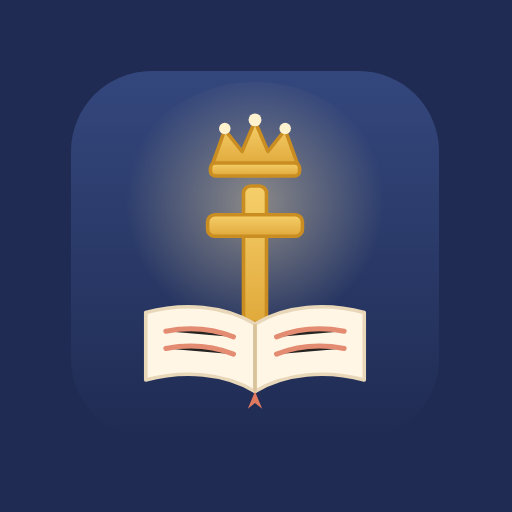
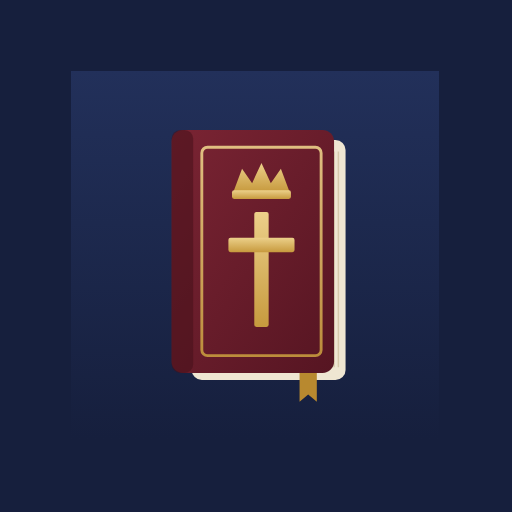
Visual mais formal, novo ícone de Bíblia e aba Bíblia com link para o YouVersion
Claude-Session: https://claude.ai/code/session_01E4AjPxqzJw7QhPjVE5xKtq

diff --git a/index.html b/index.html
@@ -5,7 +5,7 @@
 <meta name="viewport" content="width=device-width, initial-scale=1, viewport-fit=cover">
 <!-- PWA: permite instalar na tela inicial do celular -->
 <link rel="manifest" href="manifest.webmanifest">
-<meta name="theme-color" content="#2b3a67">
+<meta name="theme-color" content="#1c2747">
 <meta name="mobile-web-app-capable" content="yes">
 <meta name="apple-mobile-web-app-capable" content="yes">
 <meta name="apple-mobile-web-app-status-bar-style" content="default">
@@ -459,6 +459,47 @@ dialog.note-dlg{max-width:620px}
   .view-head svg.ill{width:56px;height:56px}
 }
 
+
+/* =========================================================
+   10. AJUSTES DE ESTILO FORMAL
+   ========================================================= */
+:root{ --gold:#b8892f; --gold-soft:#f6ecd6; --coral:#8c2f39; --sage:#4f7a63; --sage-soft:#e6efe9; --sky:#3f6c99; --sky-soft:#e6eef7; --plum:#5e4a72;
+       --hero-a:#1c2747; --hero-b:#2b3a67; --radius:12px }
+[data-theme="dark"]{ --coral:#d8848c; --gold:#d9b25f; --sage:#8fb8a1; --plum:#b9a3cc }
+.hero h2,.view-head h2,.home-card h3,.day-ref,.brand span,.bp-card h3,.note-card h3{font-family:var(--font-text);font-weight:600;letter-spacing:.1px}
+.hero{border-radius:16px}
+.hero h2{font-size:28px}
+.hero .eyebrow{color:#e3c47e;letter-spacing:1.4px}
+.hero-mark{width:96px;height:96px;border-radius:22px;box-shadow:0 6px 18px rgba(0,0,0,.25);flex:none}
+.eyebrow{color:var(--coral);letter-spacing:1.2px}
+.home-card,.bp-card,.note-card,.day-card,.streak{border-radius:12px}
+.home-card{border-top:3px solid var(--gold)!important}
+.home-card .badge-ill,.view-head svg.ill,.bp-thumb{display:none}
+.view-head{border-left:3px solid var(--gold);padding-left:14px}
+.streak .flame{width:30px;height:30px;color:var(--gold)}
+.nav-btn{border-radius:8px}
+.top-nav .nav-btn[aria-current="page"]{background:transparent;color:var(--accent);box-shadow:inset 0 -2px 0 var(--gold);border-radius:0}
+.pill{border-radius:6px}
+.btn{border-radius:8px}
+.note-card{border-left-width:3px}
+.devo-block h4{letter-spacing:1px}
+/* Aba Bíblia: o leitor ocupa a área entre o topo e a barra inferior */
+body.reading{overflow:hidden}
+dialog.reader.as-view{position:fixed;top:66px;bottom:14px;left:0;right:0;margin:0 auto;height:auto;max-height:none;width:calc(100% - 24px);max-width:900px;z-index:20;box-shadow:var(--shadow)}
+.rd-mid{display:flex;align-items:center;gap:8px;flex-wrap:wrap;justify-content:center}
+#rdYV{font-size:12px}
+dialog.reader.as-view .rd-com{max-height:24vh}
+.rd-verse.sel{cursor:default}
+@media (max-width:899px){
+  dialog.reader.as-view{top:60px;bottom:calc(64px + env(safe-area-inset-bottom));width:100%;max-width:100%;border-radius:0;border-left:0;border-right:0}
+  .bottom-nav .nav-btn{font-size:10px;padding:6px 0}
+  .bottom-nav .nav-btn .icon{width:21px;height:21px}
+}
+@media (max-width:760px){
+  .hero-mark{width:64px;height:64px;border-radius:15px}
+  .hero h2{font-size:22px}
+  .rd-mid #rdPos{display:none}
+}
 </style>
 </head>
 <body>
@@ -541,6 +582,7 @@ dialog.note-dlg{max-width:620px}
     <h1 class="brand"><a href="#inicio" data-view="inicio"><img src="icons/icon.svg" alt="" width="34" height="34"><span>Concordância Bíblica</span></a></h1>
     <nav class="top-nav" aria-label="Seções do aplicativo">
       <button type="button" class="nav-btn" data-view="inicio"><svg class="icon" aria-hidden="true"><use href="#i-home"/></svg>Início</button>
+      <button type="button" class="nav-btn" data-view="biblia"><svg class="icon" aria-hidden="true"><use href="#i-book"/></svg>Bíblia</button>
       <button type="button" class="nav-btn" data-view="busca"><svg class="icon" aria-hidden="true"><use href="#i-search"/></svg>Busca bíblica</button>
       <button type="button" class="nav-btn" data-view="texto"><svg class="icon" aria-hidden="true"><use href="#i-sun"/></svg>Texto do dia</button>
       <button type="button" class="nav-btn" data-view="devocional"><svg class="icon" aria-hidden="true"><use href="#i-lamp"/></svg>Devocional</button>
@@ -548,7 +590,6 @@ dialog.note-dlg{max-width:620px}
       <button type="button" class="nav-btn" data-view="notas"><svg class="icon" aria-hidden="true"><use href="#i-note"/></svg>Minhas notas</button>
     </nav>
     <div class="header-tools">
-      <button type="button" class="btn" id="readBtn" aria-label="Ler a Bíblia"><svg class="icon" aria-hidden="true"><use href="#i-book"/></svg>Ler</button>
       <button type="button" class="btn btn-icon" id="themeBtn" aria-label="Alternar para tema escuro" title="Alternar tema">
         <svg class="icon" aria-hidden="true"><use href="#i-moon" id="themeIcon"/></svg>
       </button>
@@ -565,7 +606,7 @@ dialog.note-dlg{max-width:620px}
       <h2 id="homeTitle">Seu tempo com a Palavra hoje</h2>
       <p id="heroDate"></p>
     </div>
-    <svg aria-hidden="true"><use href="#ill-sunrise"/></svg>
+    <img class="hero-mark" src="icons/icon.svg" alt="" width="96" height="96">
   </div>
   <div id="remBanner"></div>
   <div class="streak" id="streakBox" aria-live="polite"></div>
@@ -603,6 +644,9 @@ dialog.note-dlg{max-width:620px}
     </article>
   </div>
 </section>
+
+<!-- ===================== BÍBLIA (leitor do próprio app) ===================== -->
+<section class="view" id="view-biblia" hidden aria-label="Bíblia"></section>
 
 <!-- ===================== BUSCA BÍBLICA ===================== -->
 <section class="view" id="view-busca" hidden aria-label="Busca bíblica">
@@ -826,6 +870,7 @@ dialog.note-dlg{max-width:620px}
 <!-- Navegação inferior (celular) -->
 <nav class="bottom-nav" aria-label="Seções do aplicativo">
   <button type="button" class="nav-btn" data-view="inicio"><svg class="icon" aria-hidden="true"><use href="#i-home"/></svg>Início</button>
+  <button type="button" class="nav-btn" data-view="biblia"><svg class="icon" aria-hidden="true"><use href="#i-book"/></svg>Bíblia</button>
   <button type="button" class="nav-btn" data-view="busca"><svg class="icon" aria-hidden="true"><use href="#i-search"/></svg>Busca</button>
   <button type="button" class="nav-btn" data-view="texto"><svg class="icon" aria-hidden="true"><use href="#i-sun"/></svg>Texto</button>
   <button type="button" class="nav-btn" data-view="devocional"><svg class="icon" aria-hidden="true"><use href="#i-lamp"/></svg>Devocional</button>
@@ -881,7 +926,8 @@ dialog.note-dlg{max-width:620px}
   <div class="dlg-body" id="ctxBody"></div>
   <div class="reader-nav">
     <button type="button" class="btn" id="rdPrev" aria-label="Capítulo anterior">‹ Anterior</button>
-    <span id="rdPos" class="muted"></span>
+    <span class="rd-mid"><span id="rdPos" class="muted"></span>
+      <a class="btn btn-sm btn-ext" id="rdYV" target="_blank" rel="noopener noreferrer" title="Abre este capítulo no YouVersion, onde você escolhe ARA, NVI, NAA e outras versões">Abrir no YouVersion ↗</a></span>
     <button type="button" class="btn" id="rdNext" aria-label="Próximo capítulo">Próximo ›</button>
   </div>
   <div class="rd-com" id="rdCom" hidden></div>
@@ -1445,9 +1491,15 @@ function openDialog(d){ if(typeof d.showModal==="function"){ if(!d.open) d.showM
 async function openReader(opts={}){
   const last=store.get("reader",{});
   Object.assign(rd, { t:last.t||el.tr.value||DEFAULT_VERSION, b:last.b||"JHN", c:last.c||1, cmp:last.cmp||"" }, opts);
-  rd.sel=null; openDialog(el.dlg); await renderReader();
+  rd.sel=null;
+  const asView=!!opts.asView;
+  if(el.dlg.open && el.dlg.classList.contains("as-view")!==asView) el.dlg.close();
+  el.dlg.classList.toggle("as-view",asView); document.body.classList.toggle("reading",asView);
+  if(!el.dlg.open){ if(asView) el.dlg.show(); else openDialog(el.dlg); }
+  await renderReader();
 }
-function openContext(v){ setFocus(v); openReader({ t:v.t, b:v.b, c:v.c, hi:v.v }); }
+function closeReader(){ if(el.dlg.open) el.dlg.close(); el.dlg.classList.remove("as-view"); document.body.classList.remove("reading"); }
+function openContext(v){ setFocus(v); openReader({ t:v.t, b:v.b, c:v.c, hi:v.v, asView:false }); }
 
 async function renderReader(){
   document.documentElement.style.setProperty("--rd-size", rd.size+"px");
@@ -1478,6 +1530,7 @@ async function renderReader(){
   rdEl.actions.hidden=true; rd.sel=null; $("#rdCom").hidden=true;
   const cur=el.dlgBody.querySelector(".current"); if(cur) cur.scrollIntoView({block:"center"}); else el.dlgBody.scrollTop=0;
   rdEl.prev.disabled = !neighbor(-1); rdEl.next.disabled = !neighbor(1);
+  $("#rdYV").href = `https://www.bible.com/bible/compare/${rd.b}.${rd.c}.1-${verses.length||1}`;
 }
 function neighbor(step){
   const books=Repo.booksIn(rd.t); const i=books.findIndex(b=>b.id===rd.b);
@@ -1493,9 +1546,10 @@ rdEl.b.addEventListener("change",()=>{ rd.b=rdEl.b.value; rd.c=1; rd.hi=null; re
 rdEl.c.addEventListener("change",()=>{ rd.c=+rdEl.c.value; rd.hi=null; renderReader(); });
 $("#rdSmaller").addEventListener("click",()=>{ rd.size=Math.max(14,rd.size-1); store.set("fontSize",rd.size); document.documentElement.style.setProperty("--rd-size",rd.size+"px"); });
 $("#rdBigger").addEventListener("click",()=>{ rd.size=Math.min(30,rd.size+1); store.set("fontSize",rd.size); document.documentElement.style.setProperty("--rd-size",rd.size+"px"); });
-$("#readBtn").addEventListener("click",()=>openReader({hi:null}));
+
 
 function selectVerse(p){
+  if(p.classList.contains("sel")){ p.classList.remove("sel"); rd.sel=null; rdEl.actions.hidden=true; $("#rdCom").hidden=true; return; }
   el.dlgBody.querySelectorAll(".rd-verse.sel").forEach(x=>x.classList.remove("sel"));
   const vn=+p.dataset.v; p.classList.add("sel");
   rd.sel = { t:rd.t, b:rd.b, c:rd.c, v:vn, text:(Bible.data[rd.t].books[rd.b][rd.c-1][vn-1]) };
@@ -1508,12 +1562,12 @@ rdEl.actions.addEventListener("click",e=>{
   const b=e.target.closest("[data-rd]"); if(!b || !rd.sel) return; const v=rd.sel;
   if(b.dataset.rd==="copy") copyVerse(v);
   if(b.dataset.rd==="fav") toggleFav(v);
-  if(b.dataset.rd==="com"){ el.dlg.close(); setFocus(v); selectTab("com"); openStudyOnMobile(); }
-  if(b.dataset.rd==="note"){ el.dlg.close(); startNote(v); }
+  if(b.dataset.rd==="com"){ closeReader(); showView("busca"); setFocus(v); selectTab("com"); openStudyOnMobile(); }
+  if(b.dataset.rd==="note"){ startNote(v); }
 });
 document.addEventListener("keydown",e=>{ if(!el.dlg.open || ["SELECT","INPUT","TEXTAREA"].includes(document.activeElement.tagName)) return;
   if(e.key==="ArrowLeft") goChapter(-1); if(e.key==="ArrowRight") goChapter(1); });
-el.dlgClose.addEventListener("click",()=>el.dlg.close?el.dlg.close():el.dlg.removeAttribute("open"));
+el.dlgClose.addEventListener("click",()=>{ const wasView=el.dlg.classList.contains("as-view"); closeReader(); if(wasView) showView(lastView||"inicio"); });
 
 
 /* ---------- Favoritos ---------- */
@@ -2258,7 +2312,7 @@ function renderStreak(){
   const n=Streak.count(), done=Streak.isDone(), set=new Set(Streak.days());
   const dots=Array.from({length:7},(_,i)=>{ const d=addDays(i-6); const k=todayKey(d);
     return `<span class="dot ${set.has(k)?"on":""} ${i===6?"today":""}" title="${esc(d.toLocaleDateString("pt-BR"))}"><i></i>${esc(d.toLocaleDateString("pt-BR",{weekday:"narrow"}))}</span>`; }).join("");
-  box.innerHTML = `<svg class="flame" aria-hidden="true"><use href="#ill-flame"/></svg>
+  box.innerHTML = `<svg class="flame icon" aria-hidden="true"><use href="#i-calendar"/></svg>
     <div><strong>${n} ${n===1?"dia seguido":"dias seguidos"}</strong><br><span class="muted">${done?"Estudo de hoje concluído. Volte amanhã para continuar a sequência!":"Leia o texto do dia ou o devocional e marque como concluído."}</span></div>
     <div class="dots" aria-label="Últimos 7 dias">${dots}</div>`;
   document.querySelectorAll(".done-btn").forEach(b=>{ b.setAttribute("aria-pressed",done); b.lastChild.textContent = done?"Concluído hoje":"Marcar como concluído"; });
@@ -2384,7 +2438,7 @@ async function renderHome(){
 $("#view-inicio").addEventListener("click",e=>{
   const g=e.target.closest("[data-go]"); if(g) return showView(g.dataset.go);
   if(e.target.closest("[data-newnote]")) return openNoteEditor({});
-  if(e.target.closest("[data-read]")) return openReader({hi:null});
+  if(e.target.closest("[data-read]")) return showView("biblia");
 });
 $("#homeSearch").addEventListener("submit",e=>{ e.preventDefault(); const v=$("#homeQ").value.trim();
   showView("busca"); if(v){ el.q.value=v; runSearch(); } else el.q.focus(); });
@@ -2464,7 +2518,7 @@ function openNoteEditor(pre={}){
   nd.ref.value=n?.ref||pre.ref||""; nd.text.value=n?.text||pre.text||""; nd.extra.value=n?.extra||pre.extra||"";
   const type=n?.type||pre.type||"estudo"; document.querySelector(`input[name="neType"][value="${type}"]`).checked=true;
   nd.err.textContent="";
-  if(el.dlg.open) el.dlg.close();
+  if(el.dlg.open && !el.dlg.classList.contains("as-view")) el.dlg.close();
   openDialog(nd.dlg); (nd.title.value?nd.text:nd.title).focus();
 }
 const closeNoteEditor = () => nd.dlg.close();
@@ -2632,7 +2686,8 @@ function renderReminderBanner(){
 /* =====================================================================
    NAVEGAÇÃO EM ABAS (rota pelo #hash: #inicio, #busca, #texto…)
    ===================================================================== */
-const VIEWS=["inicio","busca","texto","devocional","estudos","notas"];
+const VIEWS=["inicio","biblia","busca","texto","devocional","estudos","notas"];
+let lastView="inicio";
 let currentView="inicio", bpReady=false;
 function showView(name, {push=true}={}){
   if(!VIEWS.includes(name)) name="inicio";
@@ -2646,6 +2701,8 @@ function showView(name, {push=true}={}){
   if(name==="devocional"){ renderDevo(); renderReminders(); }
   if(name==="estudos"){ if(!bpReady){ initBP(); bpReady=true; } renderBP(); }
   if(name==="notas") renderNotesView();
+  if(name==="biblia") openReader({ hi:null, asView:true });
+  else { if(el.dlg.classList.contains("as-view")) closeReader(); lastView=name; }
 }
 document.addEventListener("click",e=>{ const b=e.target.closest("[data-view]"); if(b){ e.preventDefault(); showView(b.dataset.view); } });
 window.addEventListener("hashchange",()=>showView(location.hash.slice(1),{push:false}));

diff --git a/sw.js b/sw.js
@@ -1,6 +1,6 @@
 /* Service worker: guarda o app e as Bíblias baixadas para funcionar offline.
    Ao publicar uma nova versão, altere CACHE (ex.: v5) para forçar a atualização. */
-const CACHE = "concordancia-v8";
+const CACHE = "concordancia-v9";
 const BIBLES = "concordancia-biblias-v1"; // separado: não é apagado a cada atualização do app
 const FILES = ["./", "./index.html", "./manifest.webmanifest", "./biblias/index.json",
   "./icons/icon.svg", "./icons/favicon-64.png", "./icons/icon-180.png", "./icons/icon-192.png", "./icons/icon-512.png", "./icons/icon-maskable-512.png"];
